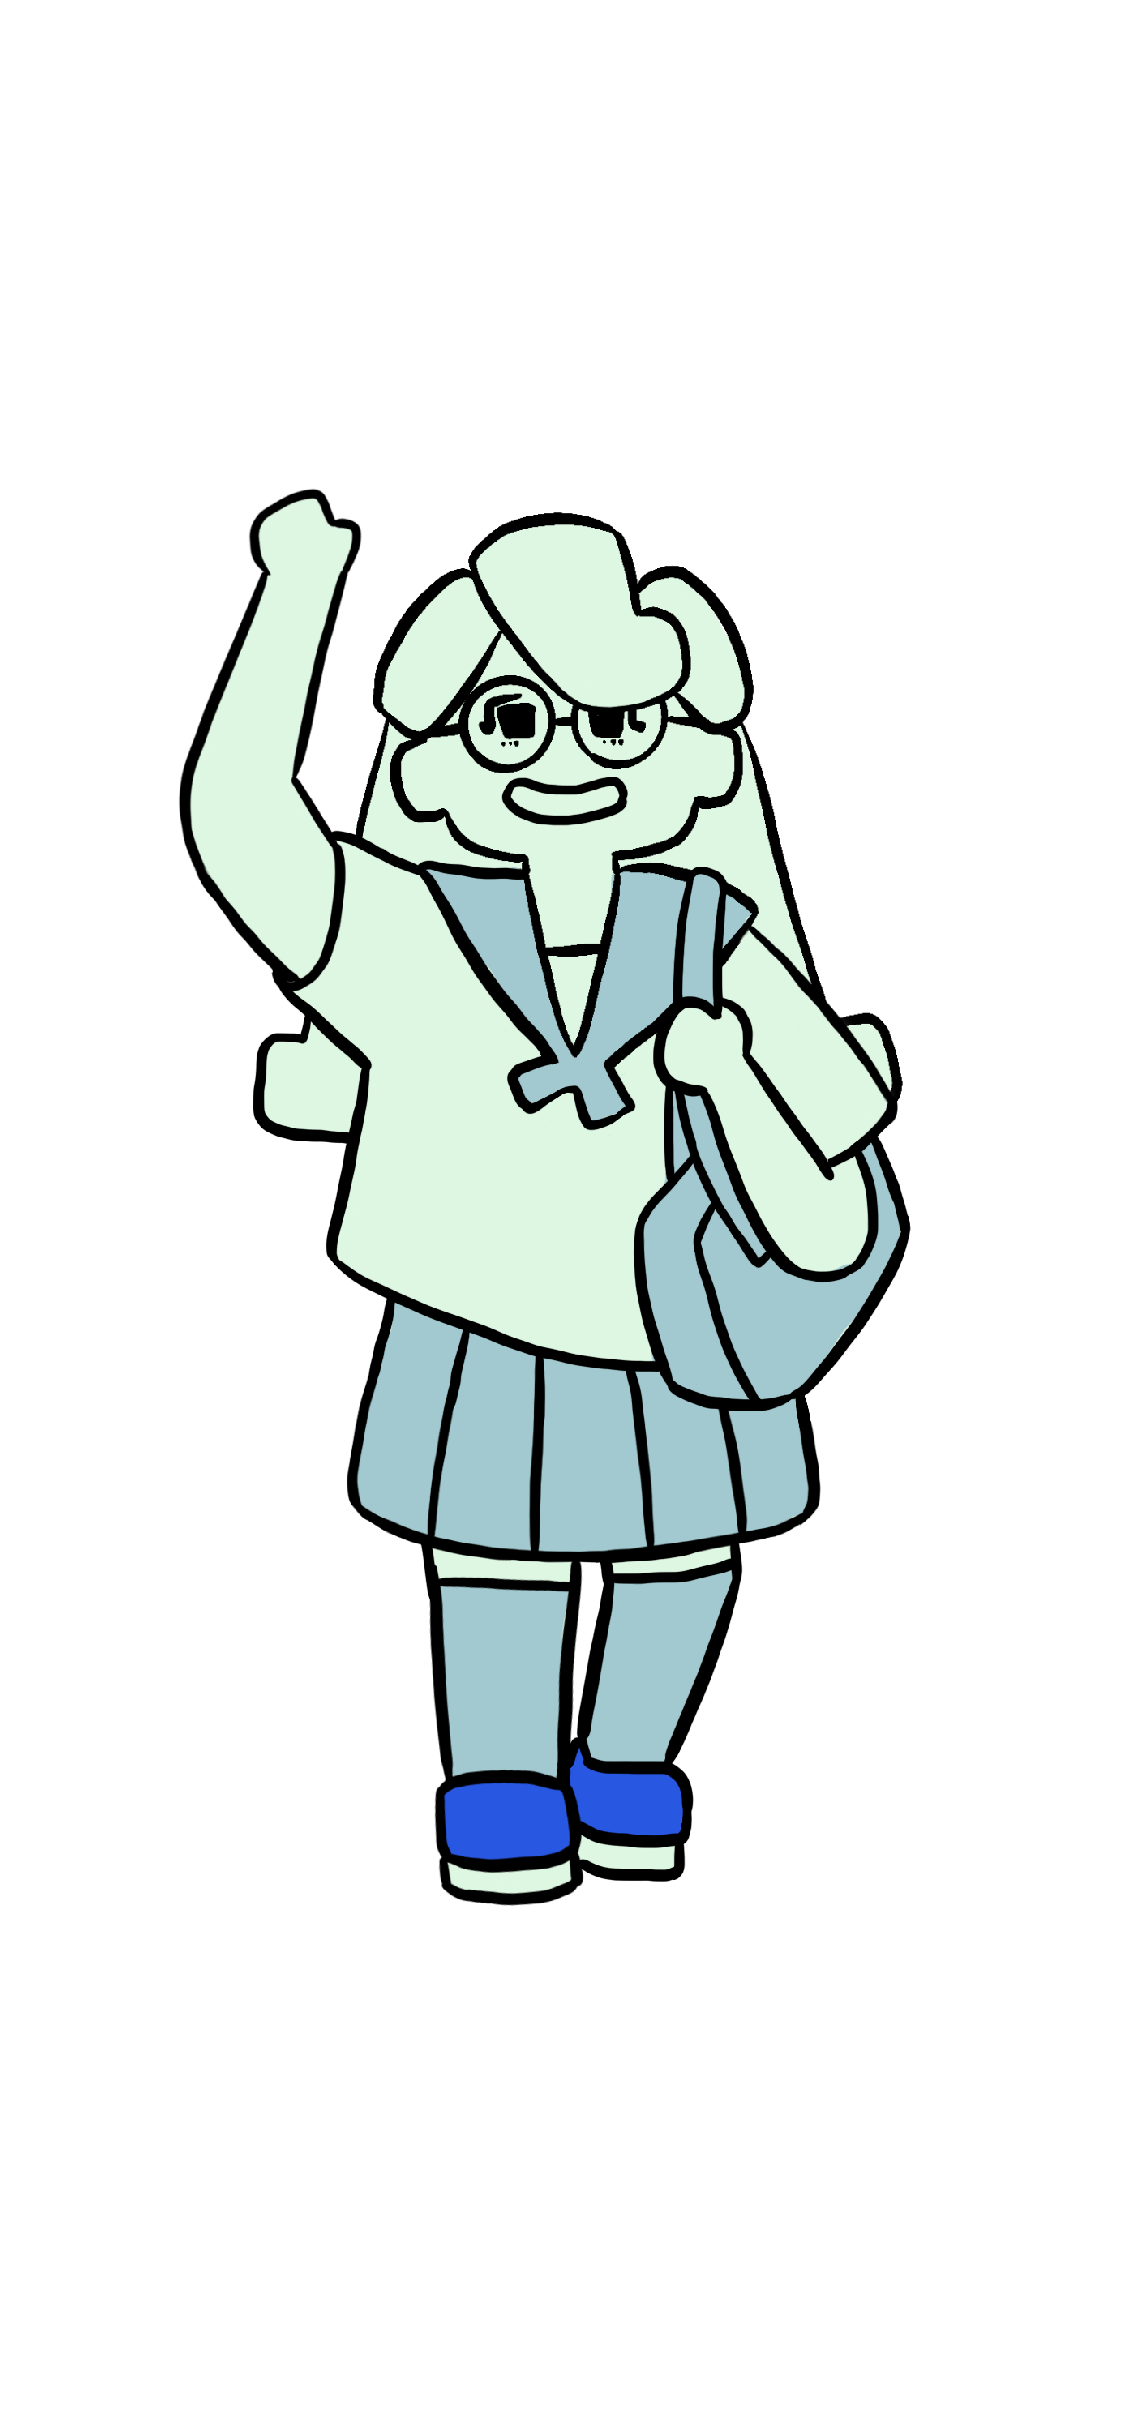
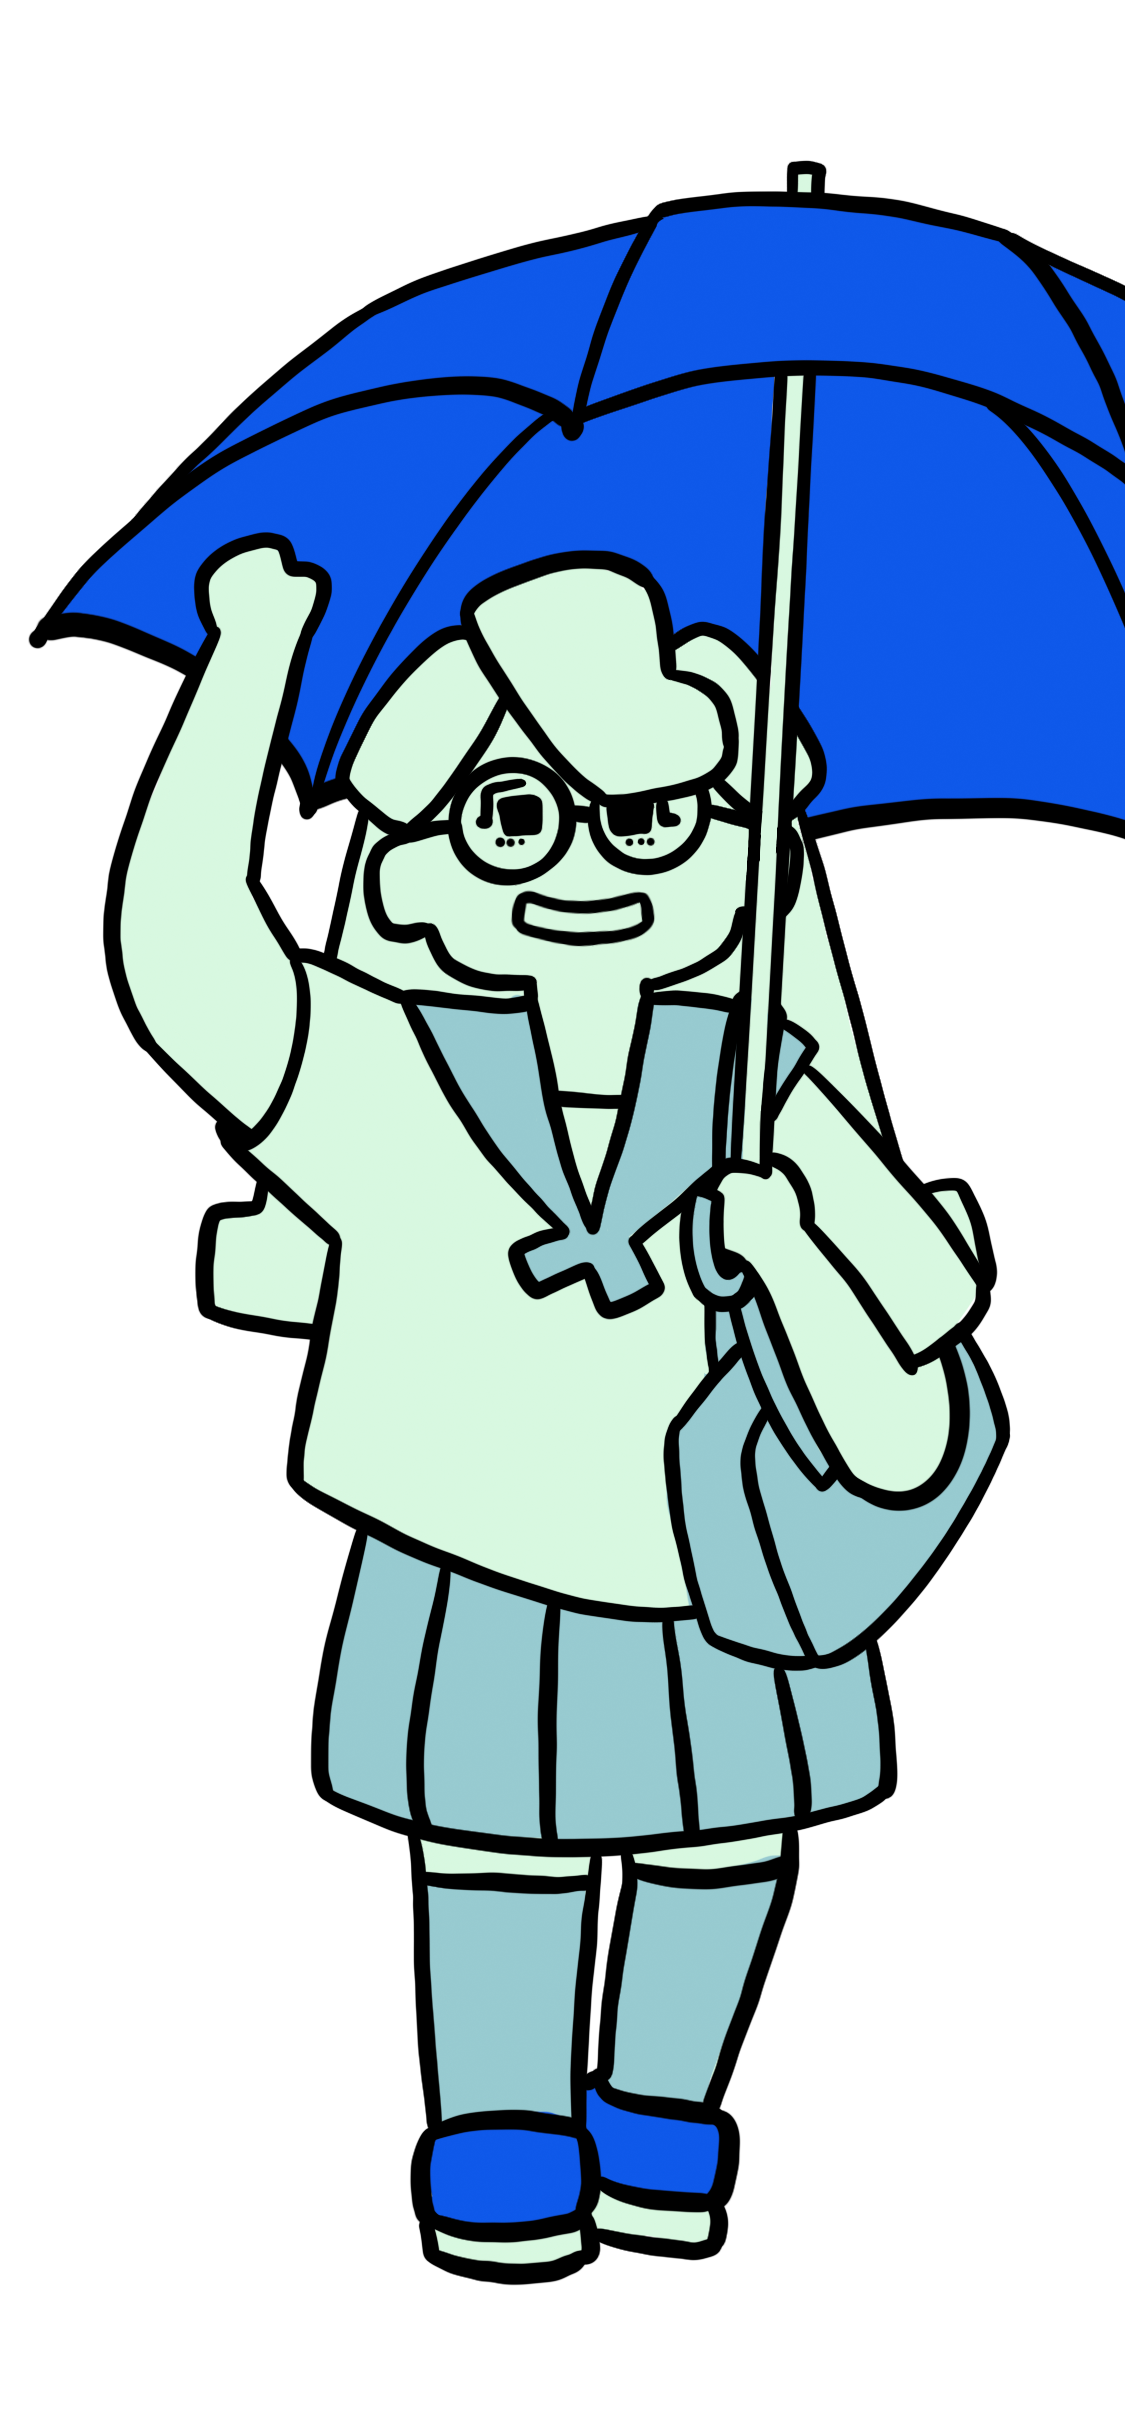
Add images for Chapter1

diff --git a/script/preload.js b/script/preload.js
@@ -3,16 +3,21 @@ let nextChapterBtnIconn;
 
 let chapter1scenes = [];
 let chapter1scene6options = [];
+let chapter1scene10options = [];
 
 function preload() {
   nextSlideBtnIcon = loadImage("./assets/images/icons/ui-arrow.png");
   nextChapterBtnIcon = loadImage("./assets/images/icons/ui-check.png");
 
-    for (let i = 1; i < 10; i++) {
+    for (let i = 1; i < 19; i++) {
       chapter1scenes.push(loadImage("./assets/images/chapter1/scene" + i + ".png"));
       }
 
     for (let i = 1; i < 5; i++) {
       chapter1scene6options.push(loadImage("./assets/images/chapter1/scene6opt" + i + ".png"));
+    }
+
+    for (let i = 1; i < 5; i++) {
+      chapter1scene10options.push(loadImage("./assets/images/chapter1/scene10opt" + i + ".png"));
     }
 }
